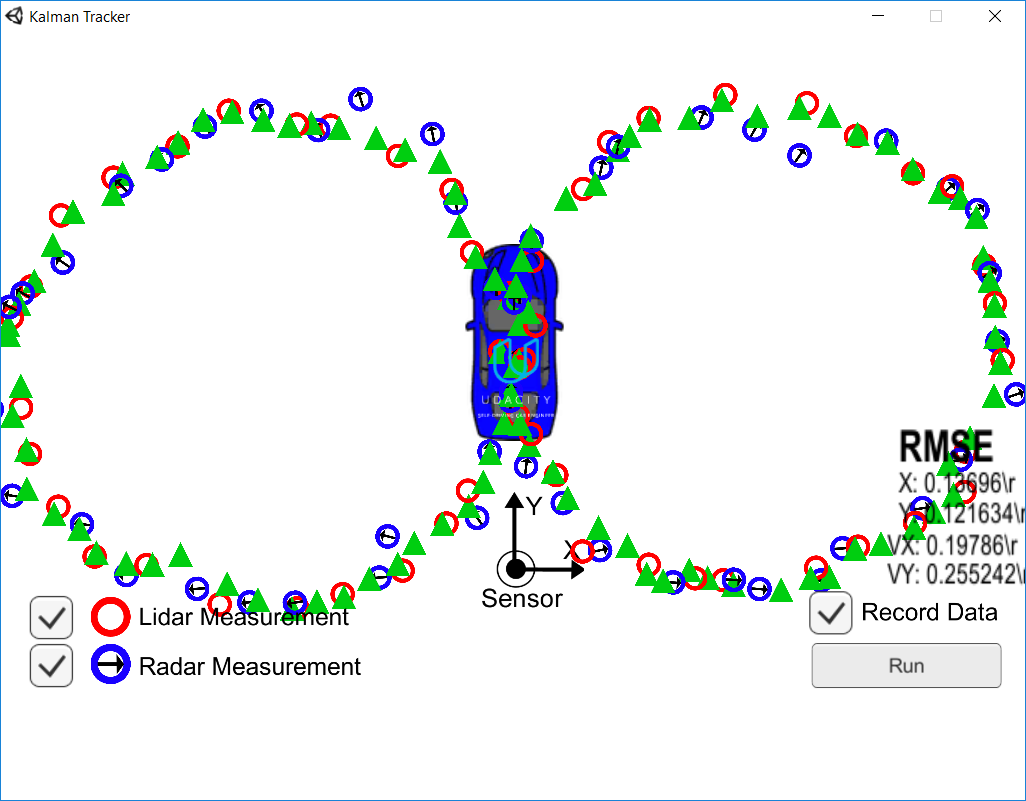
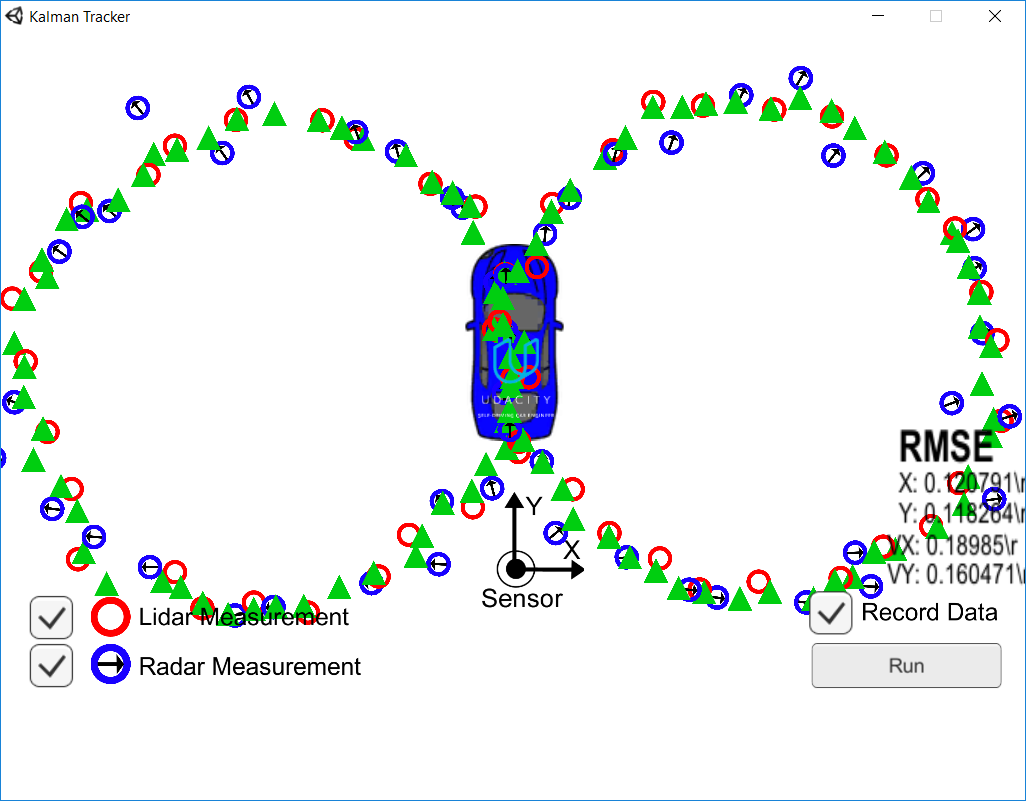
updated docs

Changed region(s): [[0.0, 0.0624, 1.0, 0.7803], [0.1248, 0.1248, 0.1559, 0.1561]]

diff --git a/README.md b/README.md
@@ -26,14 +26,15 @@ The following parameters were tuned using a grid-search method:
 	- process noise
 		- std_a		
 		- std_yawdd
+
+These values are provided by equipment manufacturers:
 	- laser measurement noise
-		- std_laspx
-		- std_laspy
-		- both were fixed to a single value std_laspxy
+		- std_laspx = 0.15
+		- std_laspy = 0.15
 	- radar measurement noise
-		- std_radr	
-		- std_radphi
-		- std_radrd
+		- std_radr = 0.3
+		- std_radphi = 0.03
+		- std_radrd = 0.3
 
 The grid search method iterates through ranges of values and evaluates performance for each set of values.
 
@@ -51,8 +52,8 @@ It gathers the following metrics at each step:
 
 ### Analysis
 
-- Select fixed values of laser and radar noise
-- Varying process noise (std-a and std-yawdd) in grid search
+- Use fixed values of laser and radar noise provided by manufacturer.
+- Vary process noise (std-a and std-yawdd) in grid search
 - Tabulate grid search results and sort them (in Excel) by RMSE to pick best process noise values.
 - Plot process noise (std-a and sts-yawdd) against NIS values in a 3D plot.
 
@@ -66,60 +67,29 @@ After studying the data sets and grid search results, I obtained the following r
 ### Lowest RMSE
 
 - Process noise
-	- std_a = 1.05
-	- std_yawdd = 0.5
+	- std_a = 0.09
+	- std_yawdd = 0.7
 
-- Measurement noise
-	- std_lasp_x = std_lasp_y = 0.3
-	- std_radr = 0.11
-	- std_radphi = 0.001
-	- std_radrd = 0.11
 
 Data | PX | PY | VX | VY
 --- | --- | --- | --- | ---
-"sample 1" | 0.036368 | 0.032266 | 0.460496 | 0.459381
-"sample 2" | 0.181998 | 0.183915 | 0.388531 | 0.489551
+"sample 1" | 0.0610262 | 0.0703744 | 0.55841 | 0.554423
+"sample 2" | 0.188741 | 0.189771 | 0.541626 | 0.526248
 
-** NIS:** Radar NIS too low on average: between 0.35 and 7.81 in only 26% of cases
-
-### Using noise values provided in EKF project
-
-- Process noise
-	- std_a = 1.041
-	- std_yawdd = 0.25
-
-- Measurement noise
-	- std_lasp_x = std_lasp_y = 0.0225
-	- std_radr = 0.09
-	- std_radphi = 0.009
-	- std_radrd = 0.09
-
-Data | PX | PY | VX | VY
---- | --- | --- | --- | ---
-"sample 1" | 0.0439351 | 0.0541247 | 0.533012 | 0.539625
-"sample 2" | 0.199834 | 0.197363 | 0.376363 | 0.463544
-
-** NIS:** Radar NIS between 0.35 and 7.81 in only 42% of measurements
+** NIS:** Radar NIS is low on average: between 0.35 and 7.81 in only 44% of cases
 
 ### Good NIS
 
 - Process noise
-	- std_a = 0.12
-	- std_yawdd = 0.54
-
-- Measurement noise
-	- std_lasp_x = std_lasp_y = 0.0825
-	- std_radr = 0.25
-	- std_radphi = 0.0125
-	- std_radrd = 0.25
+	- std_a = 0.438
+	- std_yawdd = 0.488
 
 Data | PX | PY | VX | VY
 --- | --- | --- | --- | ---
-"sample 1" | 0.0533476 | 0.0627673 | 0.55714 | 0.551546
-"sample 2" | 0.198674 | 0.191792 | 0.474725 | 0.5422
+"sample 1" | 0.0853967 | 0.0898704 | 0.604129 | 0.587199
+"sample 2" | 0.185043 | 0.189281 | 0.548535 | 0.465349
 
-** NIS:** Radar NIS between 0.35 and 7.81 in 81% of measurement
-
+** NIS:** Radar NIS between 0.35 and 7.81 in 69% of measurements
 
 ## Command line to run grid search
 ```
